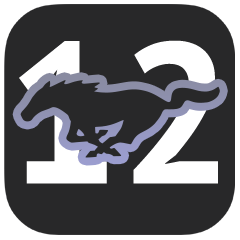
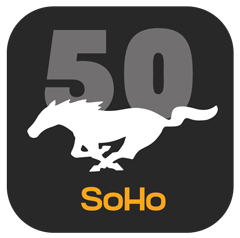
cambios en logotipo e umagenes, se oculto el sistema de ingreso de codigo.

diff --git a/www/index.html b/www/index.html
@@ -49,7 +49,7 @@
 					<img class="login-text" src="img/cal-mus-logo.png" alt="Calendario Mustang" />
 					<br/><img class="login-icon" src="img/icon.png" alt="Ford Mustang" />
 				</div>
-				<form action="" onsubmit="return form_login( this ); return false;">
+				<form action="" onsubmit="return form_login( this ); return false;" class="oculto">
 					<div class="input-group">
 						<input name="codigo" class="form-control required onlynum" value="" placeholder="Código" autocomplete="off" /> 
 						<span class="input-group-btn">
@@ -57,7 +57,7 @@
 						</span>
 					</div>
 				</form>
-				<div id="LogearCon" class="oculto">
+				<div id="LogearCon">
 					<span onclick="fb_login();" class="btn btn-primary btn-lg fbLogin margin-input"> Con&eacute;ctate con Facebook </span>
 					<span onclick="goo_login();" class="btn btn-danger btn-lg gcLogin margin-input"> Con&eacute;ctate con Google Plus </span>
 					<span onclick="mw_login();" class="btn btn-success btn-lg mwLogin"> Con&eacute;ctate con Outlook </span>

diff --git a/www/js/scripts.js b/www/js/scripts.js
@@ -471,15 +471,18 @@ $(function(){
 				if(d){
 					if(d.fbtoken != undefined){
 						SESSION['fbtoken'] = d.fbtoken.ide;
+						SESSION['hasCode'] = true;
 						hasFB = true;
 					}
 					
 					if(d.gctoken != undefined){
 						SESSION['gctoken'] = d.gctoken.ide;
+						SESSION['hasCode'] = true;
 						hasGC = true;
 					}
 					if(d.mwtoken != undefined){
 						SESSION['mwtoken'] = d.mwtoken.ide;
+						SESSION['hasCode'] = true;
 						hasMW = true;
 					}
 				}

diff --git a/www/css/style.css b/www/css/style.css
@@ -308,7 +308,7 @@ header a{
 	padding: 10px;
 }
 .login-text{
-	height: 65px;
+	height: 70px;
 }
 .login-icon{
 	height: 125px;
@@ -341,7 +341,6 @@ header a{
 
 #LogearCon {
 	text-align: center;
-	display: none;
 }
 #LogearCon .btn{
 	display: block;
